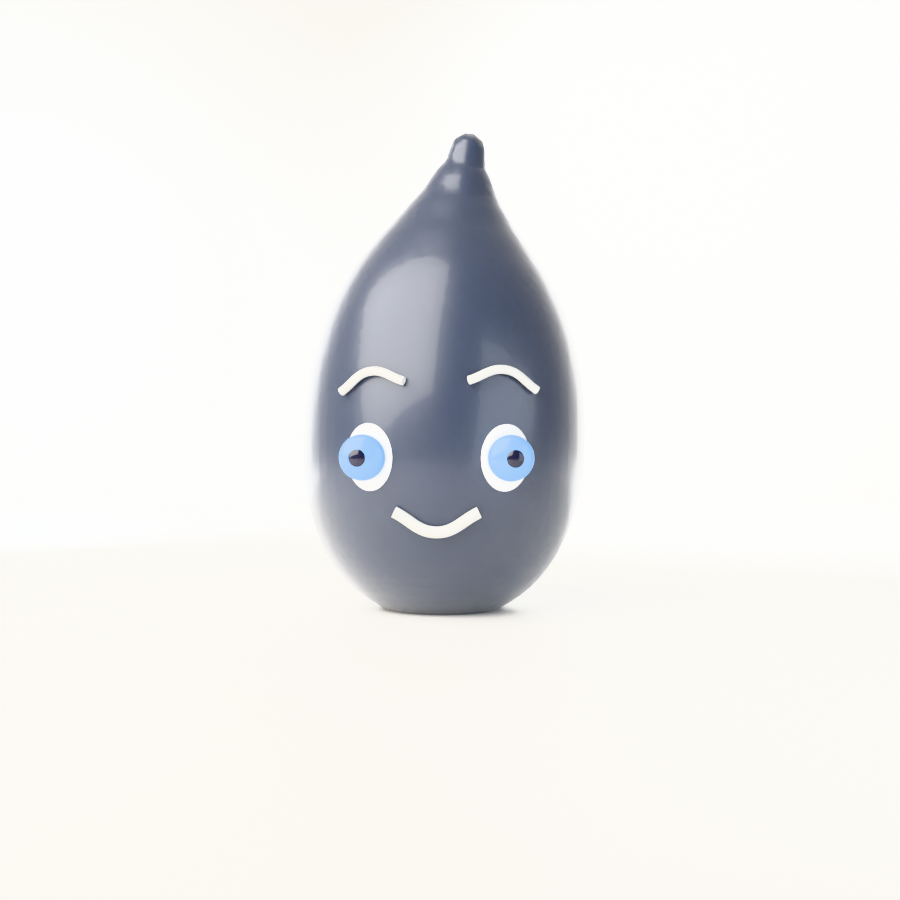
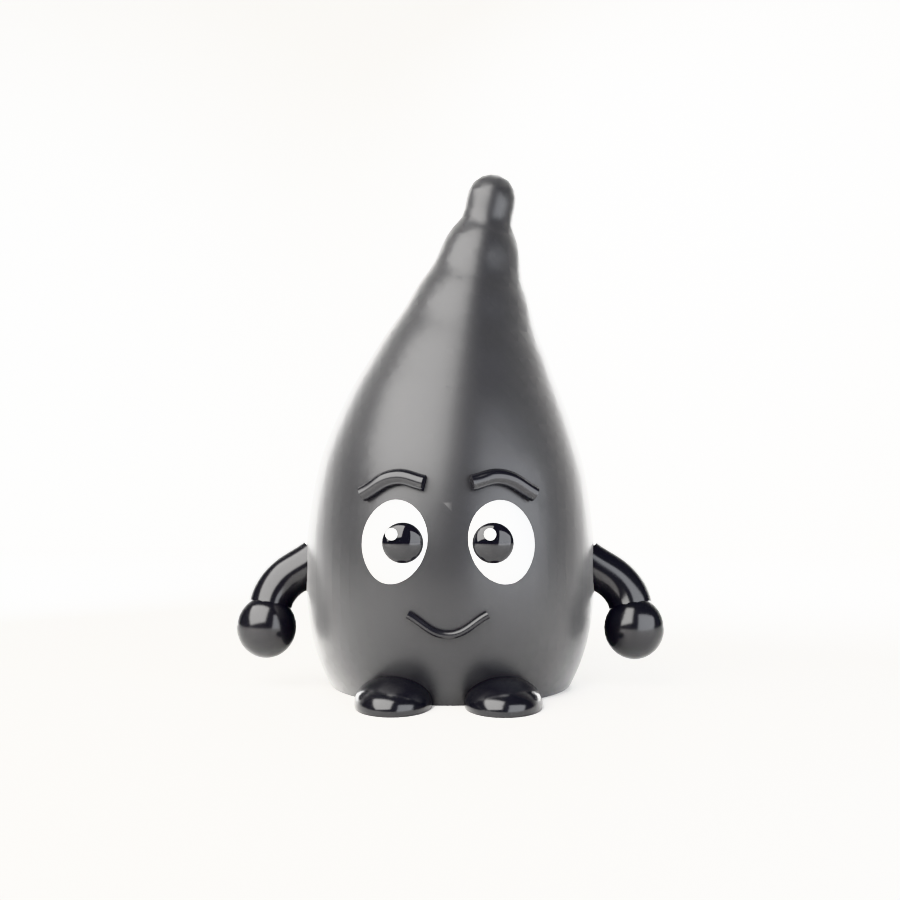
feat: Clio mascot matched to user reference — arms, feet, matte black
Reference-guided rebuild: plump drop with tall swept tip, big white
eyes with large black pupils and catchlights, bold gloss-black brows
and engraved smile (reading via sheen on the matte body), chunky stub
arms with mitten fists, rounded planted feet, deep matte-black ink
material in a soft white studio.

Changed region(s): [[0.2489, 0.1244, 0.7467, 0.8089]]

diff --git a/tools/clio-character/build_clio.py b/tools/clio-character/build_clio.py
@@ -1,19 +1,24 @@
 """
-Clio — Blender character build (resting "speech bubble" form).
+Clio — Blender character build (ink-drop mascot, user-reference guided).
+
+Reference look: matte black droplet with a tall elegant swept tip, big white
+eyes with large black pupils, black glossy brows + engraved smile (read via
+sheen, not color), stubby arms with mitten fists, rounded feet, soft white
+studio with grounded shadow.
 
 Run headless:
   blender --background --python tools/clio-character/build_clio.py -- \
     --out tools/clio-character/renders/clio_rest.png
 
-Sculpting approach mirrors the SDF shader: metaballs blend organically
-(Blender's metaballs ARE smooth-min fields), converted to a smooth mesh.
-Material is soft translucent resin/skin: Principled BSDF with subsurface
-scattering. Lighting is a three-point studio on a warm parchment stage.
+NOTE: Blender metaball surfaces sit at ~0.574x the element radius (measured).
+All feature placement ray-casts onto the real converted mesh, so features
+always seat on the surface regardless of that scaling.
 """
 
 import bpy
 import math
 import sys
+import mathutils
 
 
 def get_arg(name, default):
@@ -31,39 +36,36 @@ OUT_PATH = get_arg('--out', '//clio_rest.png')
 bpy.ops.wm.read_factory_settings(use_empty=True)
 scene = bpy.context.scene
 
-# ── Body: metaball ink drop — a drop of ink, waiting to become words ────────
+# ── Body: plump drop with a tall, elegant swept tip ──────────────────────────
 mb_data = bpy.data.metaballs.new('ClioBody')
 mb_data.resolution = 0.04
-mb_data.render_resolution = 0.02
+mb_data.render_resolution = 0.018
 mb_obj = bpy.data.objects.new('ClioBody', mb_data)
 bpy.context.collection.objects.link(mb_obj)
 
-# Round body (face lives here)
 head = mb_data.elements.new(type='BALL')
-head.co = (0.0, 0.0, 1.12)
+head.co = (0.0, 0.0, 1.15)
 head.radius = 1.0
 
-# Eye-socket mounds — the face flesh that holds the eyeballs
-for sx in (-0.20, 0.20):
-    m = mb_data.elements.new(type='BALL')
-    m.co = (sx, -0.16, 1.30)
-    m.radius = 0.34
+hips = mb_data.elements.new(type='BALL')
+hips.co = (0.0, 0.0, 0.82)
+hips.radius = 0.94
 
-# Tapering tip curving gently to one side — a dense chain for a seamless taper
-for i in range(9):
-    t = i / 8.0
+# The tip: tall graceful sweep, flicking to one side like the reference
+for i in range(10):
+    t = i / 9.0
     el = mb_data.elements.new(type='BALL')
-    el.co = (0.02 + 0.12 * t * t, 0.0, 1.55 + 1.18 * t)
-    el.radius = 0.80 * (1.0 - t) ** 1.35 + 0.085
+    el.co = (0.34 * t ** 1.5, 0.0, 1.45 + 2.0 * t)
+    el.radius = 0.85 * (1.0 - t) ** 1.6 + 0.05
 
-# Convert metaball to mesh for clean shading
+# Convert metaball to mesh
 bpy.context.view_layer.objects.active = mb_obj
 mb_obj.select_set(True)
 bpy.ops.object.convert(target='MESH')
 body = bpy.context.active_object
 body.name = 'Clio'
 
-# Keep only the largest connected island — kills stray metaball blobs
+# Keep only the largest island (kills stray blobs)
 bpy.ops.object.mode_set(mode='EDIT')
 bpy.ops.mesh.select_all(action='SELECT')
 bpy.ops.mesh.separate(type='LOOSE')
@@ -76,32 +78,33 @@ body.name = 'Clio'
 bpy.context.view_layer.objects.active = body
 bpy.ops.object.shade_smooth()
 
-# ── Body material: translucent blue resin-skin ───────────────────────────────
-mat = bpy.data.materials.new('ClioInk')
-mat.use_nodes = True
-bsdf = mat.node_tree.nodes['Principled BSDF']
-bsdf.inputs['Base Color'].default_value = (0.030, 0.040, 0.070, 1.0)  # stylized ink: near-black blue
-bsdf.inputs['Roughness'].default_value = 0.33  # soft toy sheen, not vinyl
-if 'Coat Weight' in bsdf.inputs:
-    bsdf.inputs['Coat Weight'].default_value = 0.22  # gentle sheen
-    bsdf.inputs['Coat Roughness'].default_value = 0.08
-if 'Sheen Weight' in bsdf.inputs:
-    bsdf.inputs['Sheen Weight'].default_value = 0.3
-if 'Subsurface Weight' in bsdf.inputs:
-    bsdf.inputs['Subsurface Weight'].default_value = 0.06
-    bsdf.inputs['Subsurface Radius'].default_value = (0.1, 0.12, 0.25)
-body.data.materials.append(mat)
+
+# ── Materials ────────────────────────────────────────────────────────────────
+def simple_mat(name, color, rough, coat=0.0, sheen=0.0):
+    m = bpy.data.materials.new(name)
+    m.use_nodes = True
+    b = m.node_tree.nodes['Principled BSDF']
+    b.inputs['Base Color'].default_value = (*color, 1.0)
+    b.inputs['Roughness'].default_value = rough
+    if coat and 'Coat Weight' in b.inputs:
+        b.inputs['Coat Weight'].default_value = coat
+        b.inputs['Coat Roughness'].default_value = 0.2
+    if sheen and 'Sheen Weight' in b.inputs:
+        b.inputs['Sheen Weight'].default_value = sheen
+    return m
 
 
-# ── Surface projection: every feature seats itself on the real mesh ─────────
-import mathutils
+ink_mat = simple_mat('ClioInk', (0.006, 0.006, 0.008), 0.38, coat=0.10, sheen=0.35)  # matte black ink
+gloss_black = simple_mat('GlossBlack', (0.01, 0.01, 0.012), 0.18)  # brows/mouth/limbs
+white_mat = simple_mat('EyeWhite', (0.96, 0.965, 0.97), 0.15)
+pupil_mat = simple_mat('Pupil', (0.008, 0.008, 0.01), 0.05)
+body.data.materials.append(ink_mat)
 
-HEAD_C = mathutils.Vector((0.0, 0.0, 1.30))
+# ── Surface projection helper ────────────────────────────────────────────────
+HEAD_C = mathutils.Vector((0.0, 0.0, 1.25))
 
 
 def surf(direction, offset=0.0):
-    """Ray-cast outward from the head centre; return (point, normal) with the
-    point pushed `offset` along the outward normal."""
     d = mathutils.Vector(direction).normalized()
     hit, loc, normal, _ = body.ray_cast(HEAD_C, d)
     if not hit:
@@ -109,64 +112,39 @@ def surf(direction, offset=0.0):
     return loc + normal * offset, normal
 
 
-# ── Eyes: real eyeballs seated in the face ───────────────────────────────────
+def add_sphere(name, loc, radius, scale, mat, segments=48):
+    bpy.ops.mesh.primitive_uv_sphere_add(radius=radius, location=loc,
+                                         segments=segments, ring_count=segments // 2)
+    o = bpy.context.active_object
+    o.name = name
+    o.scale = scale
+    bpy.ops.object.shade_smooth()
+    o.data.materials.append(mat)
+    return o
+
+
+# ── Eyes: big white patches, large black pupils, tiny catchlight ────────────
 def make_eye(side, name):
-    sp, n = surf((0.50 * side, -1.0, -0.03))
-    center = sp - n * 0.085  # sunk into the socket, front third proud
+    sp, n = surf((0.34 * side, -1.0, 0.06))
+    center = sp - n * 0.055  # mostly proud, slightly seated
 
-    bpy.ops.mesh.primitive_uv_sphere_add(radius=0.155, location=center, segments=48, ring_count=32)
-    eye = bpy.context.active_object
-    eye.name = f'{name}_sclera'
-    eye.scale = (0.9, 0.8, 1.12)
-    bpy.ops.object.shade_smooth()
-    m = bpy.data.materials.new(f'{name}_white')
-    m.use_nodes = True
-    b = m.node_tree.nodes['Principled BSDF']
-    b.inputs['Base Color'].default_value = (0.97, 0.98, 1.0, 1.0)
-    b.inputs['Roughness'].default_value = 0.08
-    eye.data.materials.append(m)
+    add_sphere(f'{name}_white', center, 0.185, (0.92, 0.55, 1.05), white_mat)
 
-    # Iris and pupil stack outward along the eye's own normal
-    iris_c = center + n * 0.145
-    bpy.ops.mesh.primitive_uv_sphere_add(radius=0.093, location=iris_c, segments=32, ring_count=24)
-    iris = bpy.context.active_object
-    iris.name = f'{name}_iris'
-    iris.scale = (1.0, 0.42, 1.0)
-    bpy.ops.object.shade_smooth()
-    mi = bpy.data.materials.new(f'{name}_irisMat')
-    mi.use_nodes = True
-    bi = mi.node_tree.nodes['Principled BSDF']
-    bi.inputs['Base Color'].default_value = (0.22, 0.50, 0.95, 1.0)
-    bi.inputs['Roughness'].default_value = 0.15
-    iris.data.materials.append(mi)
+    # Large black pupil, looking slightly inward like the reference
+    pupil_pos = center + n * 0.085 + mathutils.Vector((-0.03 * side, 0.0, 0.005))
+    add_sphere(f'{name}_pupil', pupil_pos, 0.088, (1.0, 0.55, 1.0), pupil_mat, segments=32)
 
-    pupil_c = center + n * 0.175
-    bpy.ops.mesh.primitive_uv_sphere_add(radius=0.042, location=pupil_c, segments=24, ring_count=16)
-    pupil = bpy.context.active_object
-    pupil.name = f'{name}_pupil'
-    pupil.scale = (1.0, 0.4, 1.0)
-    bpy.ops.object.shade_smooth()
-    mp = bpy.data.materials.new(f'{name}_pupilMat')
-    mp.use_nodes = True
-    bp_ = mp.node_tree.nodes['Principled BSDF']
-    bp_.inputs['Base Color'].default_value = (0.02, 0.02, 0.04, 1.0)
-    bp_.inputs['Roughness'].default_value = 0.1
-    pupil.data.materials.append(mp)
+    # Catchlight — the toy-render spark
+    cl_pos = pupil_pos + n * 0.05 + mathutils.Vector((-0.028, 0.0, 0.035))
+    add_sphere(f'{name}_cl', cl_pos, 0.025, (1.0, 0.6, 1.0), white_mat, segments=16)
 
 
 make_eye(-1, 'EyeL')
 make_eye(1, 'EyeR')
 
-# ── Feature material + bezier-arc helper ────────────────────────────────────
-feat_mat = bpy.data.materials.new('FeatureMat')
-feat_mat.use_nodes = True
-fb_ = feat_mat.node_tree.nodes['Principled BSDF']
-fb_.inputs['Base Color'].default_value = (0.62, 0.62, 0.60, 1.0)  # soft grey
-fb_.inputs['Roughness'].default_value = 0.4
 
-
-def arc(name, dirs, bevel, offset=0.022):
-    """Bezier arc through surface points found along the given directions."""
+# ── Arc helper (brows, mouth) ────────────────────────────────────────────────
+def arc(name, dirs, bevel, mat, offset=0.02):
     pts = [surf(d, offset)[0] for d in dirs]
     curve = bpy.data.curves.new(name, 'CURVE')
     curve.dimensions = '3D'
@@ -179,35 +157,63 @@ def arc(name, dirs, bevel, offset=0.022):
     curve.use_fill_caps = True
     obj = bpy.data.objects.new(name, curve)
     bpy.context.collection.objects.link(obj)
-    obj.data.materials.append(feat_mat)
+    obj.data.materials.append(mat)
     return obj
 
 
-# Brows — arched just above the eyes, hugging the face
-arc('BrowL', [(-0.72, -0.85, 0.46), (-0.48, -0.95, 0.60), (-0.22, -1.0, 0.50)], 0.018)
-arc('BrowR', [(0.22, -1.0, 0.50), (0.48, -0.95, 0.60), (0.72, -0.85, 0.46)], 0.018)
+# Brows — bold black arcs above the eyes (read via gloss against matte body)
+arc('BrowL', [(-0.62, -0.90, 0.42), (-0.38, -1.0, 0.55), (-0.16, -1.0, 0.48)], 0.034, gloss_black)
+arc('BrowR', [(0.16, -1.0, 0.48), (0.38, -1.0, 0.55), (0.62, -0.90, 0.42)], 0.034, gloss_black)
 
-# Mouth — small confident smile on the chin
-arc('Mouth', [(-0.30, -1.0, -0.42), (0.0, -1.0, -0.56), (0.30, -1.0, -0.42)], 0.024, offset=0.015)
+# Mouth — thin engraved smile
+arc('Mouth', [(-0.26, -1.0, -0.40), (0.0, -1.0, -0.52), (0.26, -1.0, -0.40)], 0.016, gloss_black, offset=0.012)
 
-# ── Stage: warm parchment floor + backdrop (one curved plane) ────────────────
-bpy.ops.mesh.primitive_plane_add(size=30, location=(0, 4, 0.60))
+
+# ── Arms: stubby, bent, mitten fists ─────────────────────────────────────────
+def make_arm(side, name):
+    shoulder, sn = surf((1.0 * side, -0.10, -0.12))
+    elbow = shoulder + mathutils.Vector((0.13 * side, -0.02, -0.14))
+    fist_c = elbow + mathutils.Vector((0.04 * side, -0.05, -0.16))
+
+    curve = bpy.data.curves.new(name, 'CURVE')
+    curve.dimensions = '3D'
+    sp_ = curve.splines.new('BEZIER')
+    sp_.bezier_points.add(2)
+    for bpt, co in zip(sp_.bezier_points, [shoulder - sn * 0.05, elbow, fist_c]):
+        bpt.co = co
+        bpt.handle_left_type = bpt.handle_right_type = 'AUTO'
+    curve.bevel_depth = 0.10
+    curve.use_fill_caps = True
+    obj = bpy.data.objects.new(name, curve)
+    bpy.context.collection.objects.link(obj)
+    obj.data.materials.append(gloss_black)
+
+    # Mitten fist
+    add_sphere(f'{name}_fist', fist_c, 0.135, (1.0, 0.92, 1.05), gloss_black, segments=32)
+
+
+make_arm(-1, 'ArmL')
+make_arm(1, 'ArmR')
+
+# ── Feet: rounded ovals planted on the page ──────────────────────────────────
+FLOOR_Z = 0.60
+for side, name in ((-1, 'FootL'), (1, 'FootR')):
+    add_sphere(name, (0.23 * side, -0.56, FLOOR_Z + 0.02), 0.15, (1.1, 1.55, 0.72), gloss_black, segments=32)
+
+# ── Stage: warm white studio ─────────────────────────────────────────────────
+stage_mat = simple_mat('StageMat', (0.975, 0.965, 0.945), 0.6)
+bpy.ops.mesh.primitive_plane_add(size=30, location=(0, 4, FLOOR_Z))
 floor = bpy.context.active_object
 floor.name = 'Stage'
-fm = bpy.data.materials.new('StageMat')
-fm.use_nodes = True
-fb = fm.node_tree.nodes['Principled BSDF']
-fb.inputs['Base Color'].default_value = (0.973, 0.953, 0.918, 1.0)  # parchment
-fb.inputs['Roughness'].default_value = 0.55  # matte paper
-floor.data.materials.append(fm)
+floor.data.materials.append(stage_mat)
 
-# Backdrop wall — warm parchment, softly lit
 bpy.ops.mesh.primitive_plane_add(size=30, location=(0, 6, 6), rotation=(math.radians(90), 0, 0))
 wall = bpy.context.active_object
 wall.name = 'Backdrop'
-wall.data.materials.append(fm)
+wall.data.materials.append(stage_mat)
 
-# ── Studio lighting: key softbox, cool fill, rim ─────────────────────────────
+
+# ── Studio lighting ──────────────────────────────────────────────────────────
 def area_light(name, loc, rot, power, size, color=(1, 1, 1)):
     light_data = bpy.data.lights.new(name, type='AREA')
     light_data.energy = power
@@ -220,31 +226,30 @@ def area_light(name, loc, rot, power, size, color=(1, 1, 1)):
     return obj
 
 
-area_light('Key', (-3.2, -3.4, 4.6), (math.radians(45), math.radians(-18), math.radians(-32)), 1300, 7.0,
-           (1.0, 0.97, 0.92))
-area_light('Fill', (3.6, -3.0, 1.4), (math.radians(75), math.radians(18), math.radians(38)), 180, 4.0,
-           (0.85, 0.92, 1.0))
-area_light('RimL', (-3.4, 3.2, 2.6), (math.radians(-55), math.radians(-10), math.radians(-155)), 650, 2.5,
-           (0.9, 0.95, 1.0))
-area_light('Rim', (1.6, 3.8, 3.4), (math.radians(-50), math.radians(12), math.radians(160)), 950, 3.0,
-           (0.95, 0.98, 1.0))
+area_light('Key', (-3.0, -3.6, 4.8), (math.radians(44), math.radians(-16), math.radians(-30)), 1400, 7.0,
+           (1.0, 0.985, 0.96))
+area_light('Fill', (3.6, -3.2, 1.6), (math.radians(75), math.radians(18), math.radians(38)), 420, 5.0,
+           (0.94, 0.96, 1.0))
+area_light('Rim', (1.8, 3.6, 3.6), (math.radians(-50), math.radians(12), math.radians(160)), 800, 3.0,
+           (0.97, 0.98, 1.0))
+area_light('RimL', (-3.4, 3.0, 2.8), (math.radians(-55), math.radians(-10), math.radians(-155)), 550, 2.5,
+           (0.95, 0.97, 1.0))
 
-# World: soft warm ambient
 world = bpy.data.worlds.new('World')
 scene.world = world
 world.use_nodes = True
-world.node_tree.nodes['Background'].inputs['Color'].default_value = (0.96, 0.94, 0.90, 1.0)
-world.node_tree.nodes['Background'].inputs['Strength'].default_value = 0.10
+world.node_tree.nodes['Background'].inputs['Color'].default_value = (0.97, 0.96, 0.94, 1.0)
+world.node_tree.nodes['Background'].inputs['Strength'].default_value = 0.16
 
-# ── Camera: 85mm portrait, slight down-angle, gentle DoF ─────────────────────
+# ── Camera ───────────────────────────────────────────────────────────────────
 cam_data = bpy.data.cameras.new('Cam')
-cam_data.lens = 70
+cam_data.lens = 62
 cam_data.dof.use_dof = True
-cam_data.dof.focus_distance = 8.2
-cam_data.dof.aperture_fstop = 4.5
+cam_data.dof.focus_distance = 6.9
+cam_data.dof.aperture_fstop = 5.0
 cam = bpy.data.objects.new('Cam', cam_data)
-cam.location = (0.3, -7.6, 1.62)
-cam.rotation_euler = (math.radians(87.5), 0, math.radians(2.0))
+cam.location = (0.12, -7.0, 1.9)
+cam.rotation_euler = (math.radians(88.0), 0, math.radians(1.0))
 bpy.context.collection.objects.link(cam)
 scene.camera = cam
 
@@ -267,7 +272,6 @@ if prefs:
 
 scene.render.resolution_x = 900
 scene.render.resolution_y = 900
-scene.render.film_transparent = False
 scene.render.filepath = OUT_PATH
 scene.render.image_settings.file_format = 'PNG'
 
